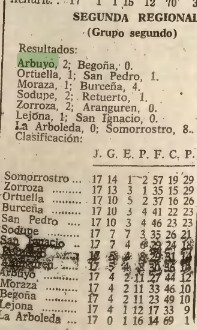
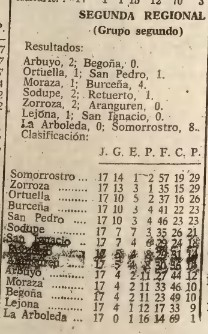
Historia 1961-62: recorte nuevo del Arbuyo 2-0 Begoña
Claude-Session: https://claude.ai/code/session_012quR8DgZQjSbG8tdjsysLz

diff --git a/index.html b/index.html
@@ -967,7 +967,7 @@ a.sp .sp-n:after{content:" ↗";color:#d7262e}
      <div class="rh"><span>14 ene. 1962</span><span>En Arbuyo</span></div>
      <div class="rm"><span><span class="a">Arbuyo</span></span><span class="sc G">2<i>-</i>0</span><span>Begoña</span></div>
      <p>Cuarta victoria de la liga. Con ella, el Arbuyo quedaba por delante del Moraza, el Begoña, el Lejona y La Arboleda.</p>
-     <figure><a href="fotos/hierro-1962-01-15-begona.jpg" target="_blank" rel="noopener"><img src="fotos/hierro-1962-01-15-begona.jpg" alt="Recorte del diario Hierro con los resultados y la clasificación del grupo segundo: Arbuyo 2, Begoña 0" width="197" height="330" loading="lazy"></a><figcaption>Hierro, 15 de enero de 1962.</figcaption></figure>
+     <figure><a href="fotos/hierro-1962-01-15-begona.jpg?v=2" target="_blank" rel="noopener"><img src="fotos/hierro-1962-01-15-begona.jpg?v=2" alt="Recorte del diario Hierro con los resultados y la clasificación del grupo segundo: Arbuyo 2, Begoña 0" width="208" height="334" loading="lazy"></a><figcaption>Hierro, 15 de enero de 1962.</figcaption></figure>
     </article>
     <article class="rcard nat">
      <div class="rh"><span>21 ene. 1962</span><span>Fuera</span></div>
